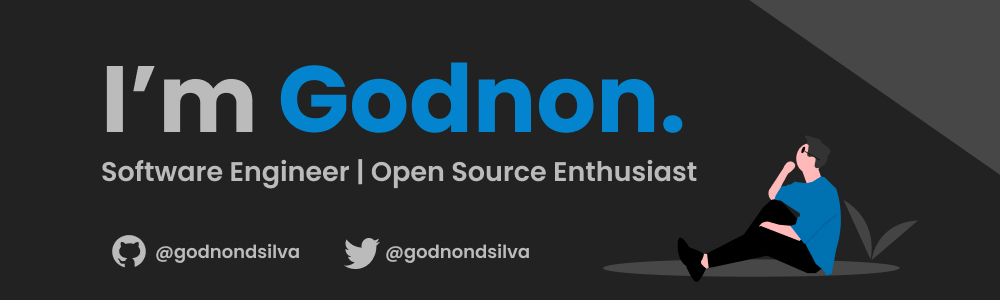
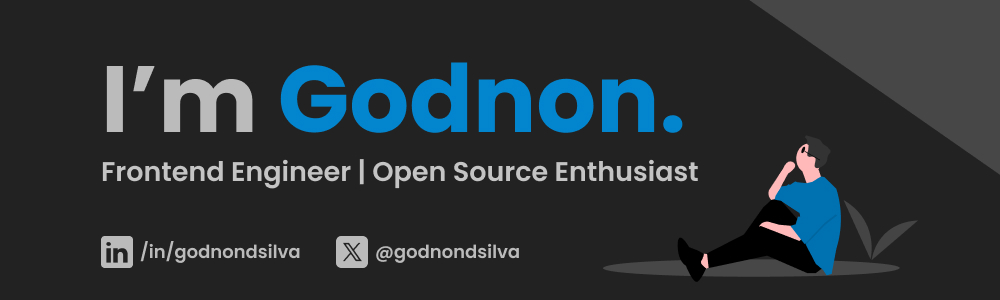
Update README.md

Changed region(s): [[0.093, 0.54, 0.713, 0.63], [0.093, 0.78, 0.527, 0.9]]

diff --git a/README.md b/README.md
@@ -1,10 +1,10 @@
 ![Profile Banner](./github-banner.jpg)
 
-I'm a software engineer from India. I enjoy building everything from small business apps to interactive web apps. I'm currently pursing my Bachelor of Engineering (B.E) degree in Computer Science & Engineering in India. If you would like to get in touch with me, you can do so using the following links:
+I'm a frontend engineer from India. I enjoy building everything from small business apps to interactive web apps. I am passionate about learning new technologies and improving my skills. I love to work on projects that challenge me and help me grow as a developer. If you would like to get in touch with me, you can do so using the following links:
 
-[![LinkedIn](https://img.shields.io/badge/LinkedIn-GodnonDsilva-informational?style=for-the-badge&logo=linkedin&logoColor=eeeeee)](https://www.linkedin.com/in/godnon-dsilva)
-[![Twitter](https://img.shields.io/badge/Twitter-GodnonDsilva-informational?style=for-the-badge&logo=twitter&logoColor=eeeeee)](https://twitter.com/godnondsilva)
-[![Visit](https://img.shields.io/badge/Visit-godnondsilva.vercel.app-informational?style=for-the-badge&logo=slashdot&logoColor=eeeeee)](https://godnondsilva.vercel.app)
+[![LinkedIn](https://img.shields.io/badge/LinkedIn-GodnonDsilva-informational?style=for-the-badge&logoColor=eeeeee)](https://www.linkedin.com/in/godnon-dsilva)
+[![X](https://img.shields.io/badge/X-GodnonDsilva-informational?style=for-the-badge&logoColor=eeeeee)](https://x.com/godnondsilva)
+[![Portfolio](https://img.shields.io/badge/Portfolio-godnondsilva.vercel.app-informational?style=for-the-badge&logoColor=eeeeee)](https://godnondsilva.vercel.app)
 
-| [![GStats](https://github-readme-stats.vercel.app/api?username=godnondsilva&count_private=true&show_icons=true&theme=github_dark&bg_color=222222)](https://github.com/godnondsilva) | [![GStreak](https://github-readme-streak-stats.herokuapp.com/?user=godnondsilva&theme=github-dark-blue&background=222222)](https://github.com/godnondsilva) | 
-|-|-|
+| [![GStats](https://github-readme-stats.vercel.app/api?username=godnondsilva&count_private=true&show_icons=true&theme=github_dark&bg_color=222222)](https://github.com/godnondsilva) | [![GStreak](https://github-readme-streak-stats.herokuapp.com/?user=godnondsilva&theme=github-dark-blue&background=222222)](https://github.com/godnondsilva) |
+| ----------------------------------------------------------------------------------------------------------------------------------------------------------------------------------- | ----------------------------------------------------------------------------------------------------------------------------------------------------------- |
